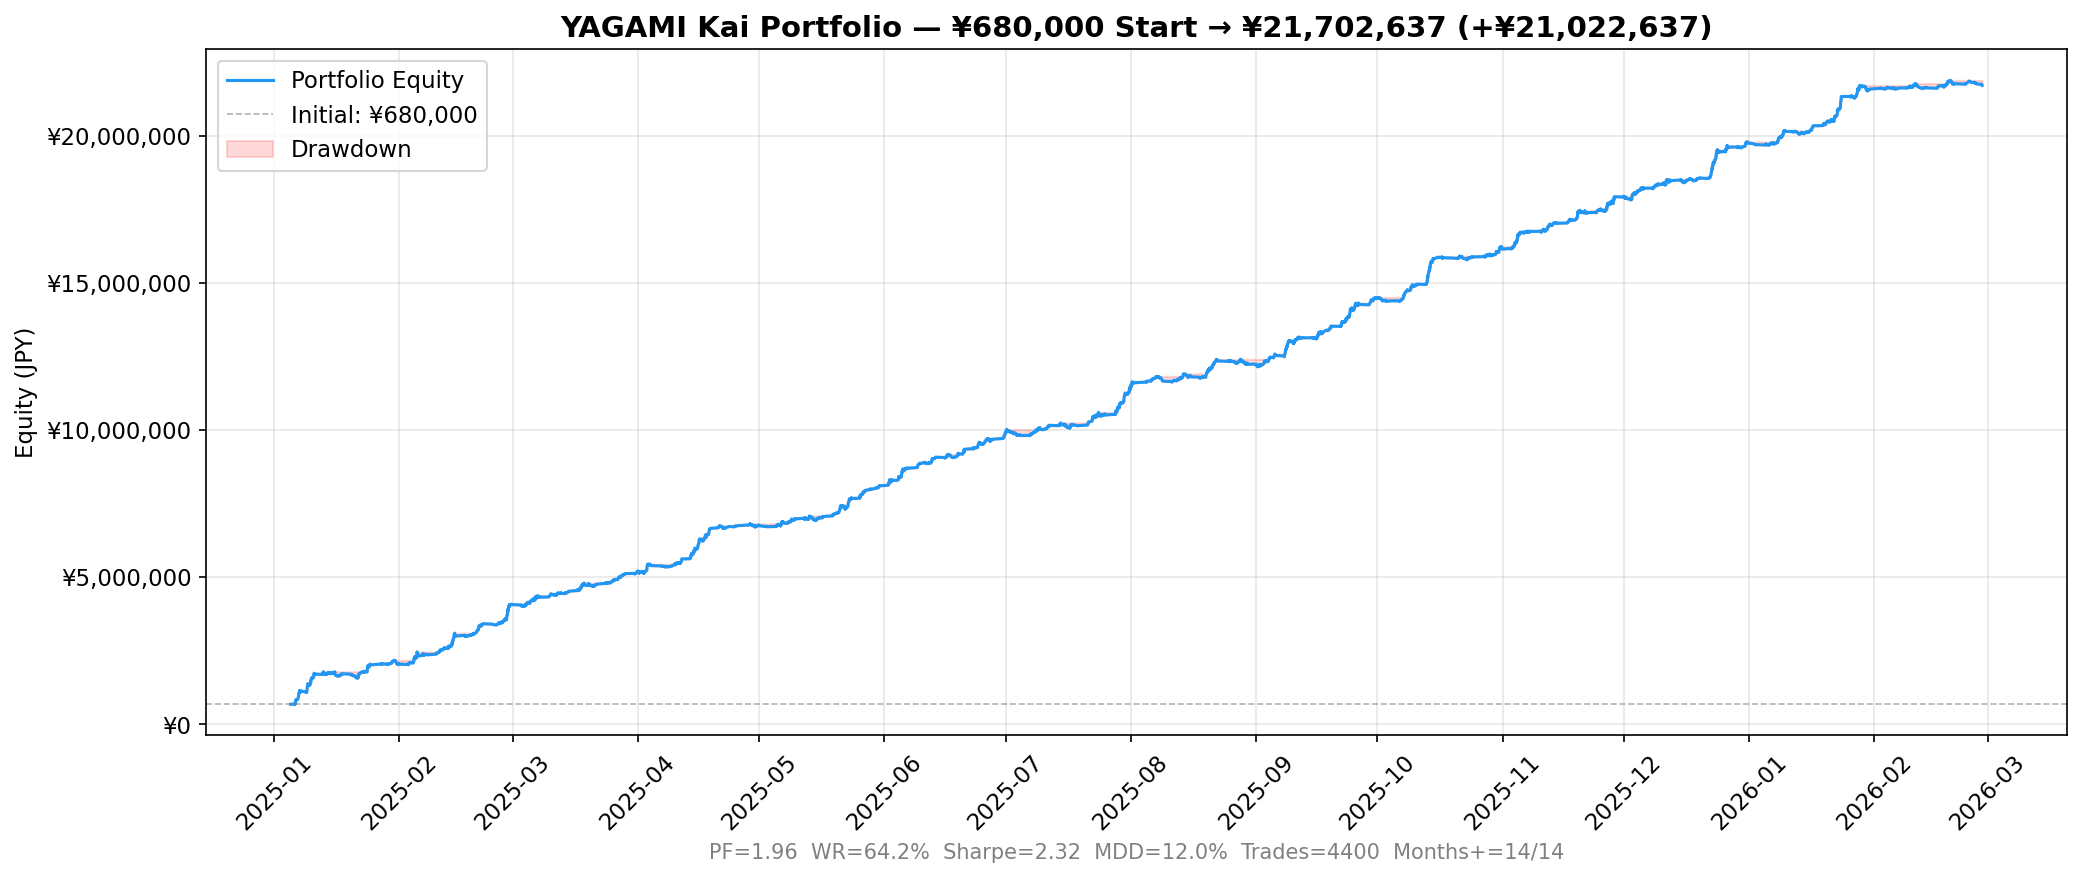
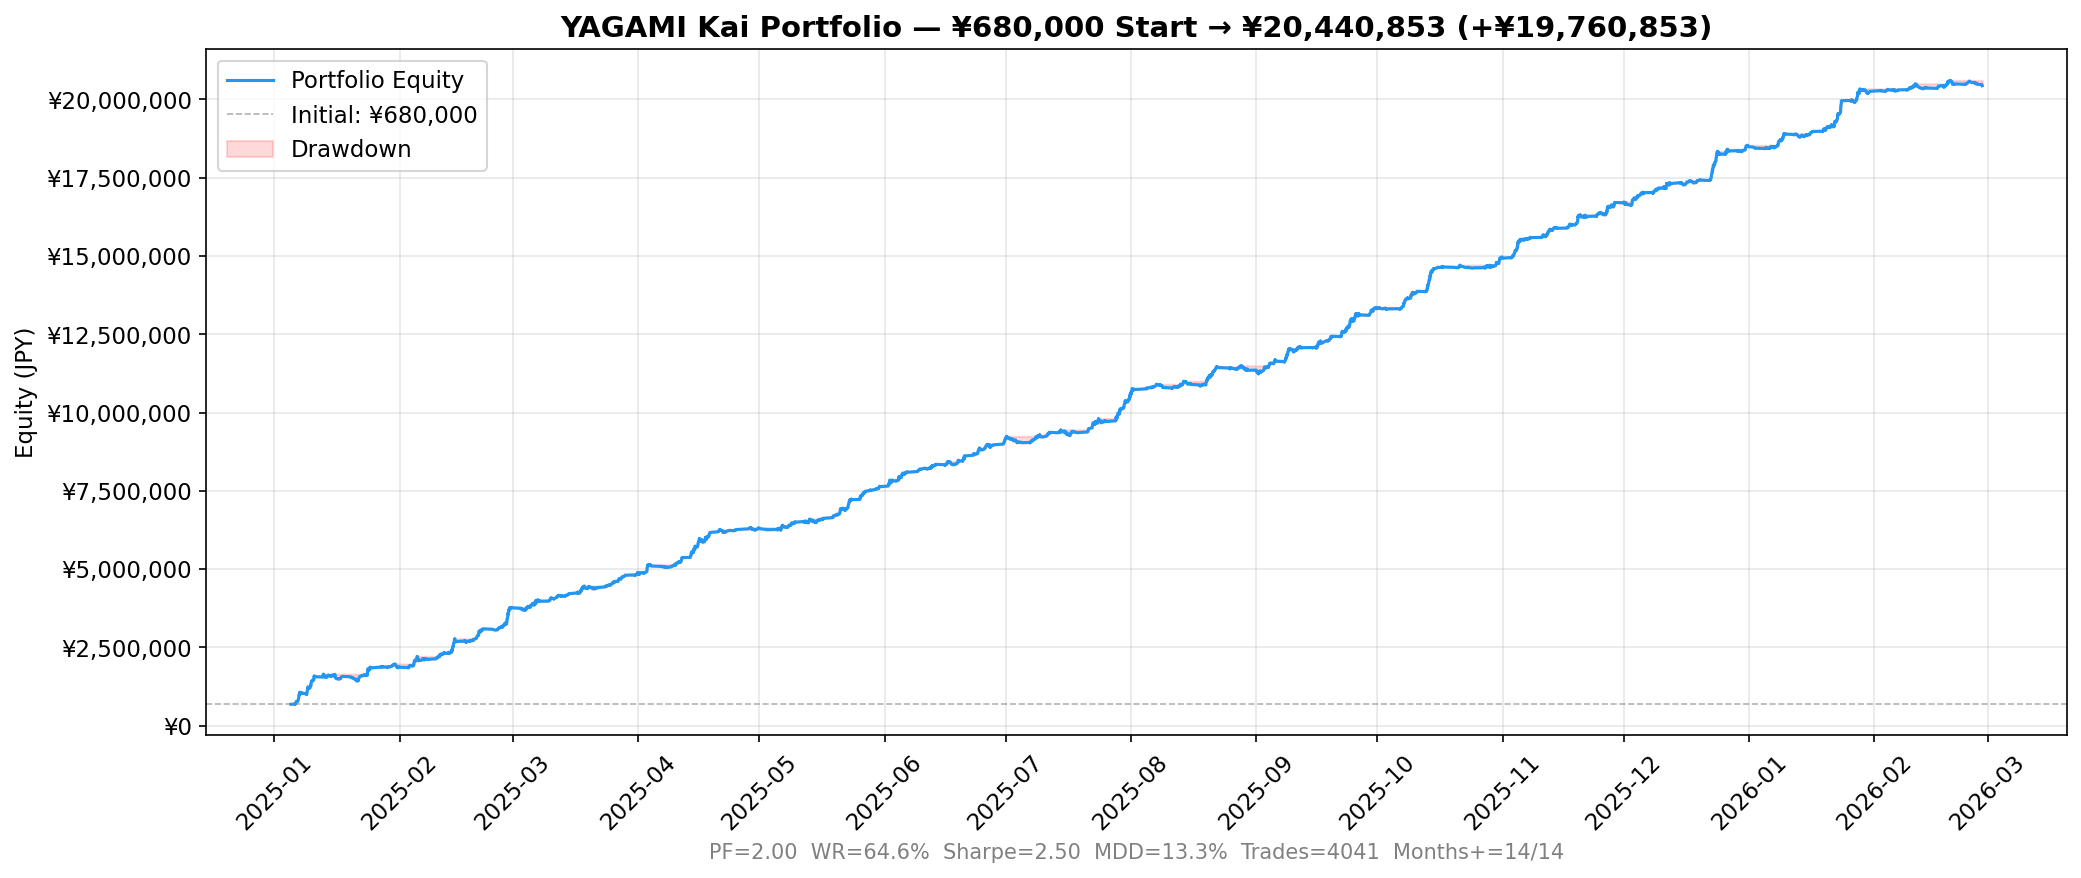
fix: AUDUSD/GBPUSD EMA距離フィルター強化 (ema_dist_min=1.5ATR)
2026年2月の勝率低下分析に基づく改修:
- AUDUSD: OOS PF 1.81→1.83, IS/OOS比 1.01→1.13 (過学習なし)
- GBPUSD: OOS PF 2.00→2.56 (+28%), IS/OOS比 0.93→1.08
- 2月損益改善: AUDUSD -¥91,800→-¥64,600, GBPUSD -¥70,491→-¥39,257
- バックテスト/本番のema_dist_min不整合を解消

https://claude.ai/code/session_01WUWuSXKaa9cD54EXzWskae

diff --git a/scripts/backtest_portfolio_680k.py b/scripts/backtest_portfolio_680k.py
@@ -40,10 +40,10 @@ os.makedirs(OUT_DIR, exist_ok=True)
 # ── 採用6銘柄 ────────────────────────────────────────────────────
 TARGETS = [
     {"sym": "USDJPY",  "logic": "C", "label": "USDJPY (Logic-C)"},
-    {"sym": "GBPUSD",  "logic": "A", "label": "GBPUSD (Logic-A)"},
+    {"sym": "GBPUSD",  "logic": "A", "label": "GBPUSD (Logic-A)", "ema_dist_min": 1.5},
     {"sym": "USDCAD",  "logic": "A", "label": "USDCAD (Logic-A)"},
     {"sym": "NZDUSD",  "logic": "A", "label": "NZDUSD (Logic-A)"},
-    {"sym": "AUDUSD",  "logic": "B", "label": "AUDUSD (Logic-B)"},
+    {"sym": "AUDUSD",  "logic": "B", "label": "AUDUSD (Logic-B)", "ema_dist_min": 1.5},
     {"sym": "XAUUSD",  "logic": "A", "label": "XAUUSD (Logic-A)"},
 ]
 
@@ -149,7 +149,7 @@ def chk_klow(b): return (min(b["open"], b["close"]) - b["low"]) / b["open"] < KL
 def chk_ema(b): return not pd.isna(b["atr"]) and b["atr"] > 0 and abs(b["close"] - b["ema20"]) >= b["atr"] * A1_EMA_DIST_MIN
 
 # ── シグナル生成 ──────────────────────────────────────────────────
-def generate_signals(d1m, d4h_full, spread, logic, atr_d, m1c):
+def generate_signals(d1m, d4h_full, spread, logic, atr_d, m1c, ema_dist_min=A1_EMA_DIST_MIN):
     d4h, d1d = build_4h(d4h_full, need_1d=(logic == "A"))
     d1h = build_1h(d1m)
     signals = []; used = set()
@@ -176,7 +176,11 @@ def generate_signals(d1m, d4h_full, spread, logic, atr_d, m1c):
 
         if not chk_kmid(h4l, trend): continue
         if not chk_klow(h4l): continue
-        if logic != "C" and not chk_ema(h4l): continue
+        # EMA距離フィルター（per-symbol ema_dist_min対応）
+        if logic != "C" and not pd.isna(h4l["atr"]) and h4l["atr"] > 0:
+            ema_dist = abs(h4l["close"] - h4l["ema20"])
+            if ema_dist < ema_dist_min * h4l["atr"]:
+                continue
 
         d = trend
         v1 = p2["low"]  if d == 1 else p2["high"]
@@ -257,7 +261,8 @@ def main():
                   "closes": d1m["close"].values,
                   "highs":  d1m["high"].values, "lows": d1m["low"].values}
 
-        sigs = generate_signals(d1m, d4h, spread, logic, atr_d, m1c)
+        edm  = tgt.get("ema_dist_min", A1_EMA_DIST_MIN)
+        sigs = generate_signals(d1m, d4h, spread, logic, atr_d, m1c, ema_dist_min=edm)
         print(f"{len(sigs)}シグナル", end="", flush=True)
 
         # シミュレーション（個別トレード記録）

diff --git a/cloud_run/main.py b/cloud_run/main.py
@@ -89,12 +89,12 @@ APPROVED_UNIVERSE = {
         "pip_size":      0.0001,
         "spread_pips":   0.1,
         "strategy":      "v79",
-        "strategy_params": {"use_1d_trend": True},
+        "strategy_params": {"use_1d_trend": True, "ema_dist_min": 1.5},  # EMA距離1.5ATR: OOS PF 2.00→2.56
         "tier":          2,
         "base_risk_pct": 0.01,                    # Phase2: 1.0%統一
-        "oos_pf":        1.86,
+        "oos_pf":        2.56,
         "kelly":         0.30,
-        "note":          "Logic-A GOLD (Sharpe=7.12)",
+        "note":          "Logic-A GOLD ema_dist=1.5 (OOS PF+28%, IS/OOS=1.08)",
     },
     "USDCAD": {
         "oanda":         "USD_CAD",
@@ -138,12 +138,12 @@ APPROVED_UNIVERSE = {
         "pip_size":      0.0001,
         "spread_pips":   0.0,
         "strategy":      "v79",
-        "strategy_params": {"adx_min": 20, "streak_min": 4},
+        "strategy_params": {"adx_min": 20, "streak_min": 4, "ema_dist_min": 1.5},  # EMA距離1.5ATR: IS/OOS=1.13
         "tier":          7,
         "base_risk_pct": 0.01,                    # Phase2: 1.0%統一
-        "oos_pf":        2.03,
+        "oos_pf":        1.83,
         "kelly":         0.35,
-        "note":          "Logic-B ADX+Streak (Sharpe=3.66)",
+        "note":          "Logic-B ADX+Streak ema_dist=1.5 (IS/OOS=1.13, 過学習なし)",
     },
 }
 
